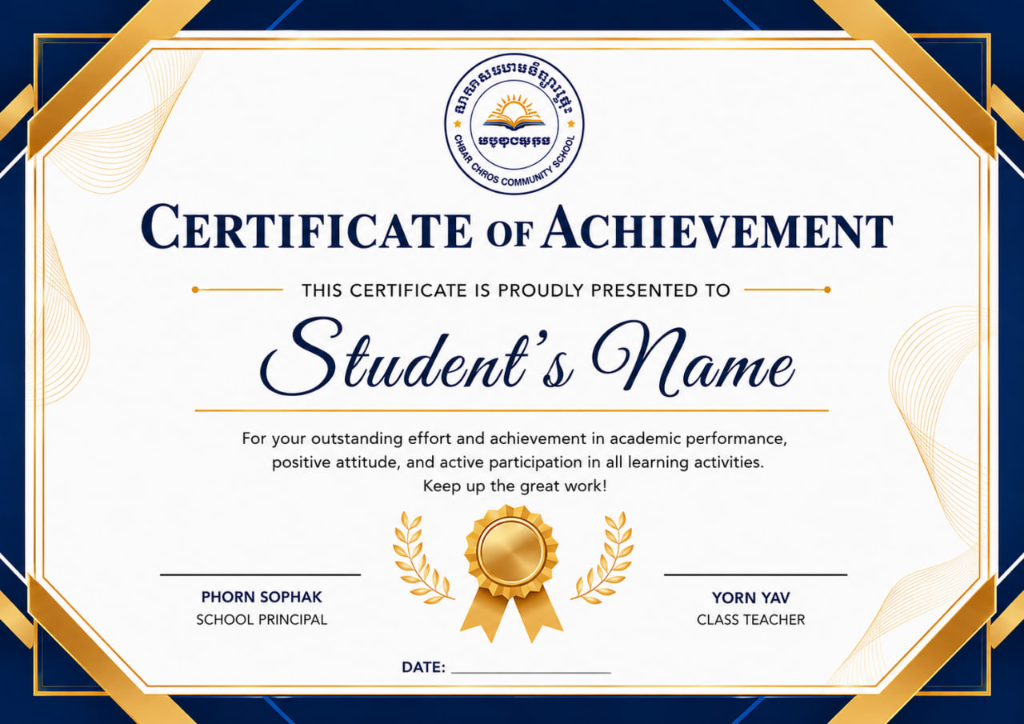
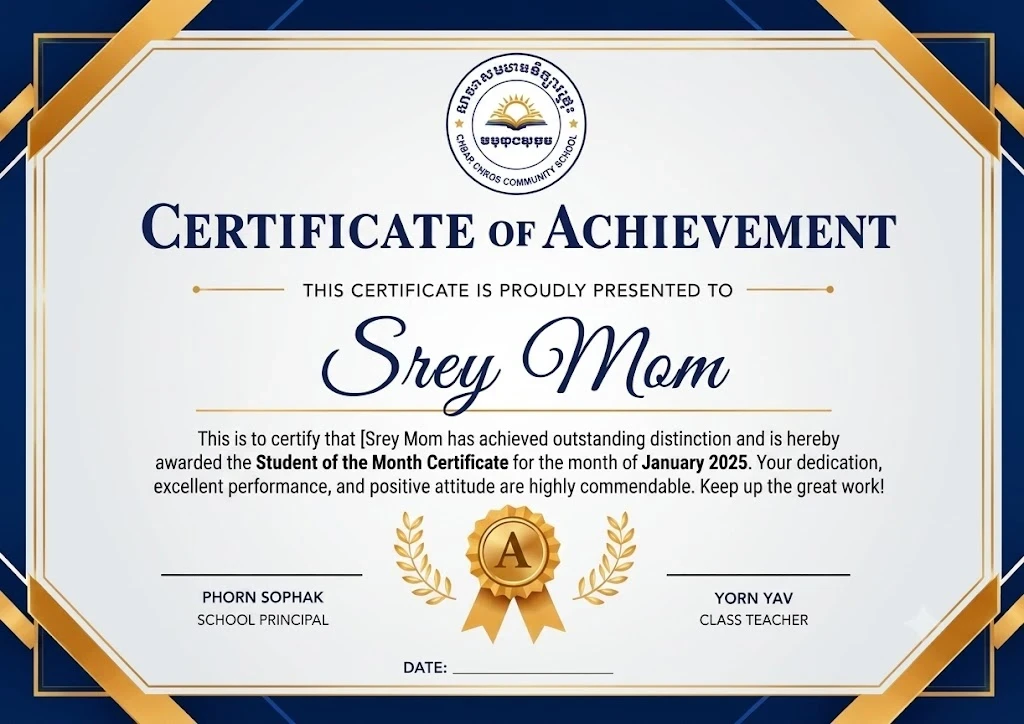
Use correct new English certificate template and align text overlays

diff --git a/src/components/MeritCertificate.tsx b/src/components/MeritCertificate.tsx
@@ -23,7 +23,11 @@ interface MeritCertificateProps {
 
 const toKh = (n: number | string) => String(n).replace(/[0-9]/g, d => '០១២៣៤៥៦៧៨៩'[+d]);
 const KH_MONTHS = ['មករា', 'កុម្ភៈ', 'មីនា', 'មេសា', 'ឧសភា', 'មិថុនា', 'កក្កដា', 'សីហា', 'កញ្ញា', 'តុលា', 'វិច្ឆិកា', 'ធ្នូ'];
-const EN_MONTHS = ['January', 'February', 'March', 'April', 'May', 'June', 'July', 'August', 'September', 'October', 'November', 'December'];
+const EN_MONTHS: Record<string, string> = {
+  'មករា': 'January', 'កុម្ភៈ': 'February', 'មីនា': 'March', 'មេសា': 'April',
+  'ឧសភា': 'May', 'មិថុនា': 'June', 'កក្កដា': 'July', 'សីហា': 'August',
+  'កញ្ញា': 'September', 'តុលា': 'October', 'វិច្ឆិកា': 'November', 'ធ្នូ': 'December'
+};
 const MONTH_LAST_DAY = [31, 28, 31, 30, 31, 30, 31, 31, 30, 31, 30, 31];
 
 // niddes word + letter for a 0–10 average (same bands as the report cards).
@@ -94,10 +98,6 @@ export default function MeritCertificate({ student, students, scoreOverride, per
     : /ប្រចាំឆ្នាំ/.test(period) ? 'សីហា'
     : student.month;
   const endDate = monthEndDate(dateMonth);
-  // English month + academic year (Sep–Dec 2025, Jan–Aug 2026) for the English cert.
-  const enMonthIdx = KH_MONTHS.indexOf((dateMonth || '').trim());
-  const enMonthYear = enMonthIdx >= 0 ? `${EN_MONTHS[enMonthIdx]} ${enMonthIdx >= 8 ? 2025 : 2026}` : '';
-  const enName = baseStudentName(student.name);
 
   // Date of birth — fall back to any of this student's rows (by អត្តលេខ, then name).
   const dobFrom = (pred: (s: StudentScore) => boolean) => students.find(s => pred(s) && !!s.dob)?.dob;
@@ -127,7 +127,7 @@ export default function MeritCertificate({ student, students, scoreOverride, per
     const el = document.getElementById('merit-cert');
     if (!el) return;
     setPdfBusy(true);
-    try { await exportElementToPdf(el, `${isEnglish ? 'Certificate' : 'ប័ណ្ណសរសើរ'}_${student.name.replace(/\s+/g, '_')}`, CERT_EXPORT_WIDTH); }
+    try { await exportElementToPdf(el, `ប័ណ្ណសរសើរ_${student.name.replace(/\s+/g, '_')}`, CERT_EXPORT_WIDTH); }
     catch (e) { console.error('PDF export failed', e); alert('មិនអាចបង្កើត PDF បានទេ — សូមព្យាយាមម្ដងទៀត។'); }
     finally { setPdfBusy(false); }
   };
@@ -137,7 +137,7 @@ export default function MeritCertificate({ student, students, scoreOverride, per
     const el = document.getElementById('merit-cert');
     if (!el) return;
     setImgBusy(true);
-    try { await exportElementToImage(el, `${isEnglish ? 'Certificate' : 'ប័ណ្ណសរសើរ'}_${student.name.replace(/\s+/g, '_')}`, CERT_EXPORT_WIDTH); }
+    try { await exportElementToImage(el, `ប័ណ្ណសរសើរ_${student.name.replace(/\s+/g, '_')}`, CERT_EXPORT_WIDTH); }
     catch (e) { console.error('Image export failed', e); alert('មិនអាចបង្កើតរូបភាពបានទេ — សូមព្យាយាមម្ដងទៀត។'); }
     finally { setImgBusy(false); }
   };
@@ -180,78 +180,73 @@ export default function MeritCertificate({ student, students, scoreOverride, per
         {/* Certificate sheet (landscape) */}
         <div id="merit-cert" className="bg-white rounded-b-2xl">
           {isEnglish ? (
-            <div className="relative w-full cert-english" style={{ aspectRatio: '1.414 / 1', containerType: 'inline-size', overflow: 'hidden' }}>
-              <style>{`
-                @import url('https://fonts.googleapis.com/css2?family=Great+Vibes&family=Playfair+Display:wght@700;900&display=swap');
-                .cert-english .sig-container p { display: none !important; }
-              `}</style>
-
-              {/* Layered navy/gold/navy/white border (solid fills — export-safe). */}
-              <div style={{ position: 'absolute', inset: 0, background: '#13245c' }} />
-              <div style={{ position: 'absolute', inset: '2cqw', background: '#b8860b' }} />
-              <div style={{ position: 'absolute', inset: '2.7cqw', background: '#13245c' }} />
-              <div style={{ position: 'absolute', inset: '3.1cqw', background: '#fdfdfb' }} />
-              {/* Ornate ribbon corners: a gold triangle, a navy triangle over it (leaving
-                  a gold band), and a thin gold highlight — a folded-ribbon look. */}
-              {[
-                { v: 'top', h: 'left', g: '135deg' }, { v: 'top', h: 'right', g: '45deg' },
-                { v: 'bottom', h: 'left', g: '225deg' }, { v: 'bottom', h: 'right', g: '315deg' },
-              ].map(({ v, h, g }) => (
-                <React.Fragment key={`${v}${h}`}>
-                  <div style={{ position: 'absolute', [v]: '-6cqw', [h]: '-6cqw', width: '18cqw', height: '18cqw', background: `linear-gradient(${g},#f2d982,#b8860b)`, transform: 'rotate(45deg)' } as React.CSSProperties} />
-                  <div style={{ position: 'absolute', [v]: '-6cqw', [h]: '-6cqw', width: '12.5cqw', height: '12.5cqw', background: '#0c1a45', transform: 'rotate(45deg)' } as React.CSSProperties} />
-                  <div style={{ position: 'absolute', [v]: '-6cqw', [h]: '-6cqw', width: '9cqw', height: '9cqw', background: `linear-gradient(${g},#f6e08e,#c9a227)`, transform: 'rotate(45deg)' } as React.CSSProperties} />
-                </React.Fragment>
-              ))}
-
-              {/* Content */}
-              <div style={{ position: 'absolute', inset: '3.1cqw', display: 'flex', flexDirection: 'column', alignItems: 'center', textAlign: 'center', padding: '2.6cqw 6cqw 2cqw', color: '#13245c' }}>
-                <div style={{ width: '9.2cqw' }}><SchoolLogo className="w-full h-auto" /></div>
-
-                <h1 style={{ fontFamily: "'Playfair Display',serif", fontWeight: 900, fontSize: '4.5cqw', letterSpacing: '0.02em', margin: '0.5cqw 0 0', lineHeight: 1, whiteSpace: 'nowrap' }}>
-                  CERTIFICATE <span style={{ fontSize: '2.5cqw', fontStyle: 'italic', color: '#b8860b', fontWeight: 700 }}>of</span> ACHIEVEMENT
-                </h1>
-
-                <div style={{ display: 'flex', alignItems: 'center', gap: '0.7cqw', margin: '1cqw 0 0.7cqw' }}>
-                  <span style={{ width: '0.7cqw', height: '0.7cqw', background: '#b8860b', transform: 'rotate(45deg)' }} />
-                  <span style={{ fontSize: '1.4cqw', letterSpacing: '0.2em', color: '#555', fontWeight: 600, fontFamily: 'sans-serif' }}>THIS CERTIFICATE IS PROUDLY PRESENTED TO</span>
-                  <span style={{ width: '0.7cqw', height: '0.7cqw', background: '#b8860b', transform: 'rotate(45deg)' }} />
-                </div>
-
-                <div style={{ fontFamily: "'Great Vibes',cursive", fontSize: '6.6cqw', color: '#13245c', lineHeight: 1.1 }}>{enName}</div>
-                <div style={{ width: '50%', borderBottom: '0.15cqw solid #c9a227', margin: '0.2cqw 0 1cqw' }} />
-
-                <p style={{ fontSize: '1.7cqw', lineHeight: 1.55, fontFamily: 'sans-serif', color: '#333', maxWidth: '82%', margin: 0 }}>
-                  For great effort, excellent results, and good behaviour{enMonthYear ? <> in <b style={{ color: '#13245c' }}>{enMonthYear}</b></> : null}.<br />
-                  Well done, <b style={{ color: '#13245c' }}>{enName}</b> — keep up the wonderful work! ⭐
+            <div className="relative w-full cert-english" style={{ aspectRatio: '1.414 / 1', containerType: 'inline-size' }}>
+              <img src="/cert-frame-en.png" alt="" className="absolute inset-0 w-full h-full pointer-events-none select-none" />
+              
+              {/* Central Box covering baked-in name and paragraph */}
+              <div className="absolute inset-x-0 flex flex-col items-center bg-white" style={{ top: '39%', bottom: '33%', padding: '0 12cqw' }}>
+                {/* Student Name */}
+                <h2 className="text-[#0f2249] font-bold mt-[1cqw]" style={{ fontFamily: "'Great Vibes', cursive", fontSize: '6.5cqw' }}>
+                  {baseStudentName(student.name)}
+                </h2>
+                
+                {/* Dynamic Paragraph */}
+                <p className="text-center text-slate-800 mt-[3.5cqw]" style={{ fontSize: '1.4cqw', lineHeight: 1.6, maxWidth: '90%' }}>
+                  This is to certify that <span className="font-bold">{baseStudentName(student.name)}</span> has achieved outstanding distinction and is hereby
+                  awarded the <span className="font-bold">Student of the Month Certificate</span> for the month of <span className="font-bold">{EN_MONTHS[student.month?.trim()] || student.month || 'January 2025'}</span>. 
+                  Your dedication, excellent performance, and positive attitude are highly commendable. Keep up the great work!
                 </p>
-
-                {/* Gold medal with the grade letter, flanked by laurels */}
-                <div style={{ display: 'flex', alignItems: 'center', justifyContent: 'center', gap: '0.4cqw', margin: '0.7cqw 0' }}>
-                  <span style={{ fontSize: '4cqw', transform: 'scaleX(-1)', lineHeight: 1 }}>🌿</span>
-                  <div style={{ width: '5.8cqw', height: '5.8cqw', borderRadius: '50%', background: 'radial-gradient(circle at 50% 35%, #f6dd8a, #c9a227 62%, #9c7b1a)', border: '0.35cqw solid #efd987', boxShadow: '0 0.3cqw 0.7cqw rgba(0,0,0,0.28)', display: 'flex', alignItems: 'center', justifyContent: 'center' }}>
-                    <span style={{ fontFamily: "'Playfair Display',serif", fontWeight: 900, fontSize: '3.3cqw', color: '#13245c' }}>{niddes.en}</span>
-                  </div>
-                  <span style={{ fontSize: '4cqw', lineHeight: 1 }}>🌿</span>
+              </div>
+              
+              {/* Grade Letter placed over the "A" on the gold seal */}
+              <div className="absolute inset-x-0 flex justify-center items-center pointer-events-none" style={{ bottom: '15cqw' }}>
+                <div className="bg-[#c89b3f] rounded-full flex items-center justify-center shadow-inner border border-amber-600" style={{ width: '3.5cqw', height: '3.5cqw' }}>
+                  <span className="text-white font-serif font-bold" style={{ fontSize: '2.5cqw', textShadow: '1px 1px 2px rgba(0,0,0,0.3)' }}>
+                    {niddes.en || 'A'}
+                  </span>
                 </div>
-
-                {/* Signatures + date */}
-                <div style={{ display: 'flex', justifyContent: 'space-between', alignItems: 'flex-end', width: '100%', marginTop: 'auto' }}>
-                  <div className="sig-container" style={{ width: '30%', textAlign: 'center' }}>
-                    <div style={{ height: '4.6cqw', display: 'flex', alignItems: 'flex-end', justifyContent: 'center' }}><PrincipalSignature height="4.2cqw" /></div>
-                    <div style={{ borderTop: '0.13cqw solid #13245c', paddingTop: '0.5cqw', fontSize: '1.4cqw', fontWeight: 700, letterSpacing: '0.05em' }}>PHORN SOPHAK</div>
-                    <div style={{ fontSize: '1.05cqw', color: '#555', letterSpacing: '0.08em' }}>SCHOOL PRINCIPAL</div>
+              </div>
+              
+              {/* Signatures & Date Section */}
+              <div className="absolute inset-x-0 bottom-0 flex justify-between items-end px-[12cqw]" style={{ height: '20cqw' }}>
+                {/* Principal Signature */}
+                <div className="text-center flex flex-col items-center w-[18cqw] sig-container" style={{ paddingBottom: '3.5cqw' }}>
+                  <div className="bg-white px-2 rounded" style={{ height: '7cqw' }}>
+                    <div style={{ height: '100%' }} className="flex items-end justify-center">
+                      <PrincipalSignature height="100%" />
+                    </div>
                   </div>
-                  <div style={{ width: '26%', textAlign: 'center', paddingBottom: '1cqw' }}>
-                    <div style={{ fontSize: '1.4cqw', fontWeight: 700, color: '#13245c' }}>DATE: {new Date().toLocaleDateString('en-GB', { day: '2-digit', month: 'short', year: 'numeric' })}</div>
+                </div>
+                
+                {/* Date */}
+                <div className="text-center flex flex-col items-center justify-end" style={{ width: '15cqw', paddingBottom: '2.5cqw' }}>
+                  <div className="bg-white px-4 py-1">
+                    <span className="text-[#0f2249] font-medium" style={{ fontSize: '1.2cqw' }}>
+                      {new Date().toLocaleDateString('en-GB', { day: '2-digit', month: 'short', year: 'numeric' })}
+                    </span>
                   </div>
-                  <div className="sig-container" style={{ width: '30%', textAlign: 'center' }}>
-                    <div style={{ height: '4.6cqw', display: 'flex', alignItems: 'flex-end', justifyContent: 'center' }}><TeacherSignature grade={student.grade} height="4.2cqw" /></div>
-                    <div style={{ borderTop: '0.13cqw solid #13245c', paddingTop: '0.5cqw', fontSize: '1.4cqw', fontWeight: 700, letterSpacing: '0.05em' }}>{teacherName}</div>
-                    <div style={{ fontSize: '1.05cqw', color: '#555', letterSpacing: '0.08em' }}>CLASS TEACHER</div>
+                </div>
+                
+                {/* Teacher Signature */}
+                <div className="text-center flex flex-col items-center w-[18cqw] sig-container" style={{ paddingBottom: '3cqw' }}>
+                  <div className="bg-white px-2 rounded" style={{ height: '7cqw' }}>
+                    <div style={{ height: '100%' }} className="flex items-end justify-center">
+                      <TeacherSignature grade={student.grade} height="100%" />
+                    </div>
+                  </div>
+                  {/* White box to cover the printed "YORN YAV" on the template, then draw dynamic name */}
+                  <div className="bg-white px-3 mt-[0.5cqw]">
+                    <div className="text-[#0f2249] font-bold uppercase tracking-wider" style={{ fontSize: '1cqw', lineHeight: 1 }}>
+                      {teacherName}
+                    </div>
                   </div>
                 </div>
               </div>
+              
+              <style>{`
+                @import url('https://fonts.googleapis.com/css2?family=Great+Vibes&display=swap');
+                .cert-english .sig-container p { display: none !important; }
+              `}</style>
             </div>
           ) : (
             <div className="relative w-full" style={{ aspectRatio: '1.414 / 1', containerType: 'inline-size' }}>
